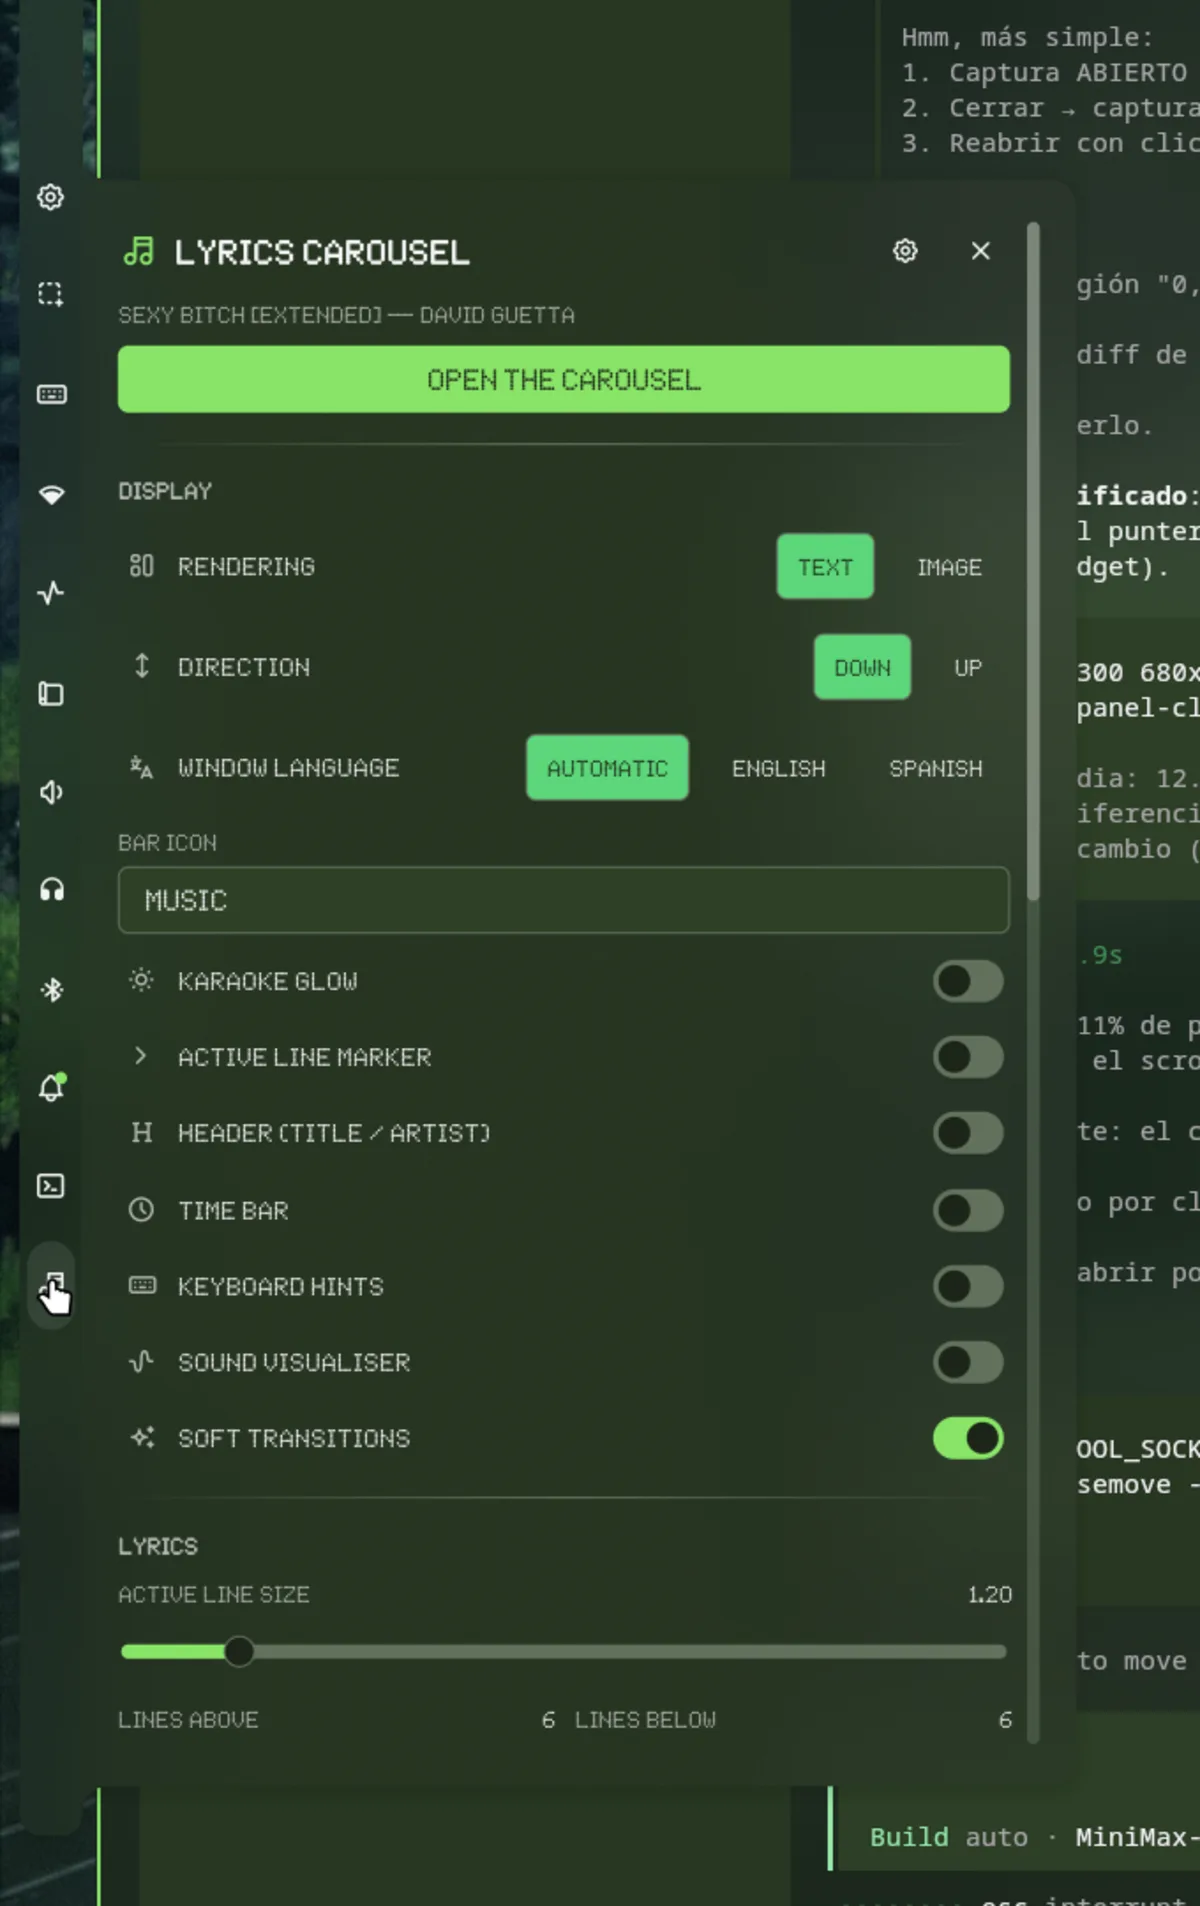
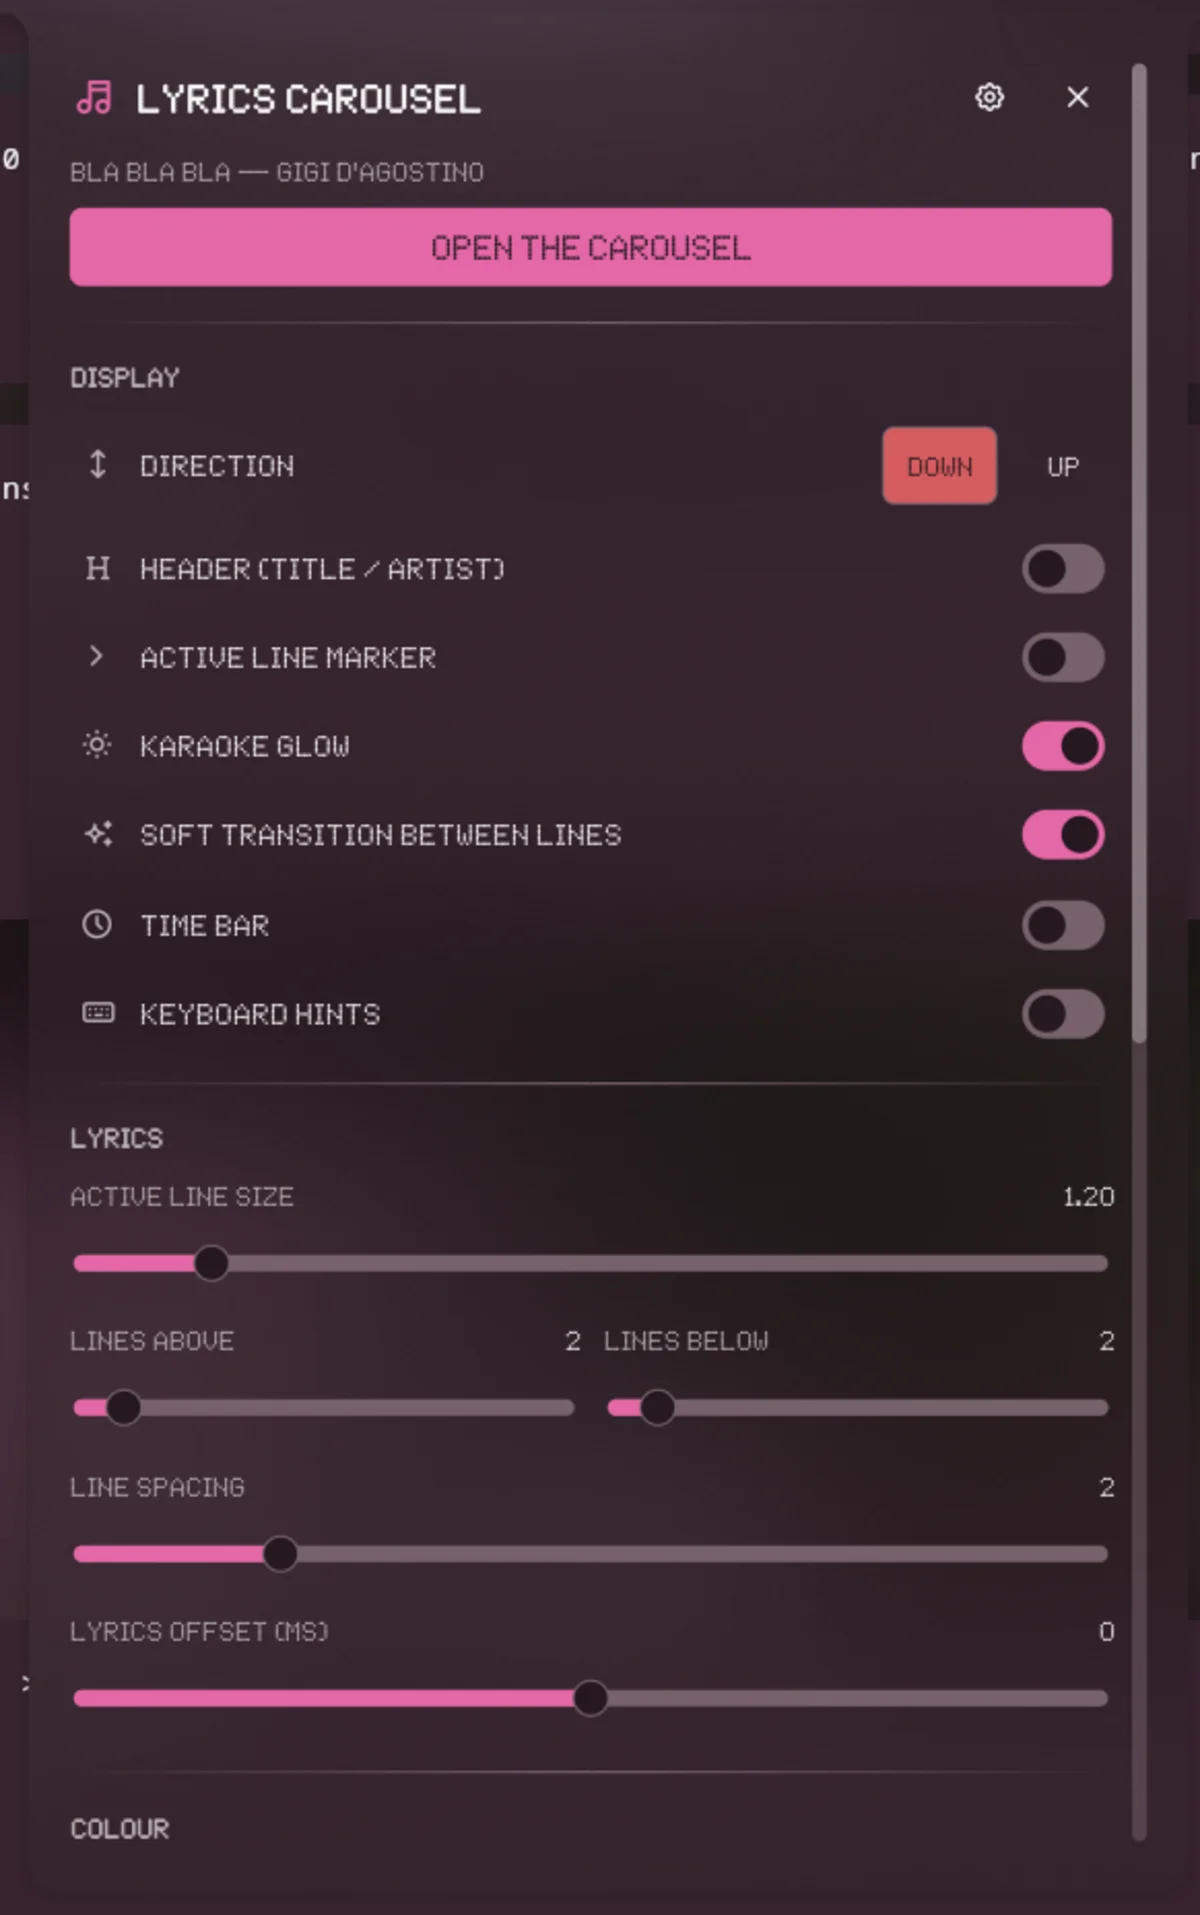
fix(lyrics-carousel): PR-ready — declarar hyprctl/fc-match, install y compat 0.57, descripcion EN, 2.7.1 y miniatura nueva

diff --git a/lyrics-carousel/README.md b/lyrics-carousel/README.md
@@ -2,6 +2,19 @@
 
 Synced lyrics in a floating kitty window, in the spirit of `cava`, `lavat` or `unimatrix`.
 
+## Install
+
+Add this repository as a plugin source and enable the plugin:
+
+```sh
+noctalia msg plugins source add dev path https://github.com/F4M1N3C/noctalia-plugins
+noctalia msg plugins enable faminec/lyrics-carousel
+```
+
+Then add the **Lyrics Carousel** bar widget from Noctalia's widget picker. Clicking it
+opens the panel (attached to the widget) and holds every setting of the plugin; the
+lyrics window itself is opened from the panel's **Open the carousel** button.
+
 ## Plugin
 
 | Field | Value |
@@ -11,13 +24,25 @@ Synced lyrics in a floating kitty window, in the spirit of `cava`, `lavat` or `u
 
 ## Requirements
 
+The plugin works on **Hyprland 0.57 or newer only**: the lyrics window is opened
+with the Hyprland Lua API (`hl.dsp.exec_cmd`) and its geometry is applied with
+`hl.dsp.window.*`. There is no Niri or Sway backend, and before Hyprland 0.57 the
+window cannot be placed that way — that is why the thumbnail carries the
+`Hyprland 0.57+ · Widget` tag.
+
 The following executables must be installed and available on `PATH`:
 
-- `kitty` — the terminal the window runs in, and the graphics protocol used by the image
-  renderer.
-- `hyprland` — the compositor; the window is opened with the Hyprland 0.57 Lua API.
-- `playerctl` — reads the active MPRIS player.
-- `python3` with `python-pillow` — draws the lyrics in image mode.
+| Executable | Package | What it is used for |
+| --- | --- | --- |
+| `kitty` | `kitty` | The terminal the lyrics window runs in, and the graphics protocol the image renderer draws with. |
+| `hyprland` | `hyprland` | The compositor. The plugin only runs on Hyprland. |
+| `hyprctl` | `hyprland` | Lists, moves, resizes, focuses and closes the lyrics window (panel geometry, self-test). |
+| `playerctl` | `playerctl` | Reads the active MPRIS player so the plugin knows what is playing. |
+| `python3` | `python` | Runs the carousel script (`bin/lyrics-carousel`) and the settings helper (`bin/set-setting.py`). |
+| `fc-match` | `fontconfig` | Resolves the configured font family to a file for Pillow (image mode accepts any installed font). |
+
+`python3` needs Pillow (`python-pillow`) for the image renderer. The plugin never
+installs anything: every dependency has to be there before the plugin is enabled.
 
 The lyrics themselves come from the Noctalia Lyrics plugin's source adapter
 (`lyric_sources.py`), so the same providers and the same configuration are reused:
@@ -121,6 +146,17 @@ it. The font family and the font size also apply live: the font cache is
 invalidated on change, so there is no need to reopen the window.
 
 ## Changelog
+
+### 2.7.1
+
+- **The right lyrics, not the first with timing**: a NetEase lyrics that comes
+  without any accented vowel nor `ñ` (e.g. `algn`, `petrleo`, `pases`, `Quin`)
+  no longer wins over a correctly written one (LRCLIB) just because it carries
+  per-character timing. Spanish/Portuguese/French lyrics are detected by
+  vocabulary (at least 25 words and 8 distinct stop-words) and zero accented
+  letters; a no-accent version neither replaces a correct one nor is cut
+  early, and a correct one can still replace it even without per-word timing.
+  English, which is also accent-free, is never marked.
 
 ### 2.7.0
 
